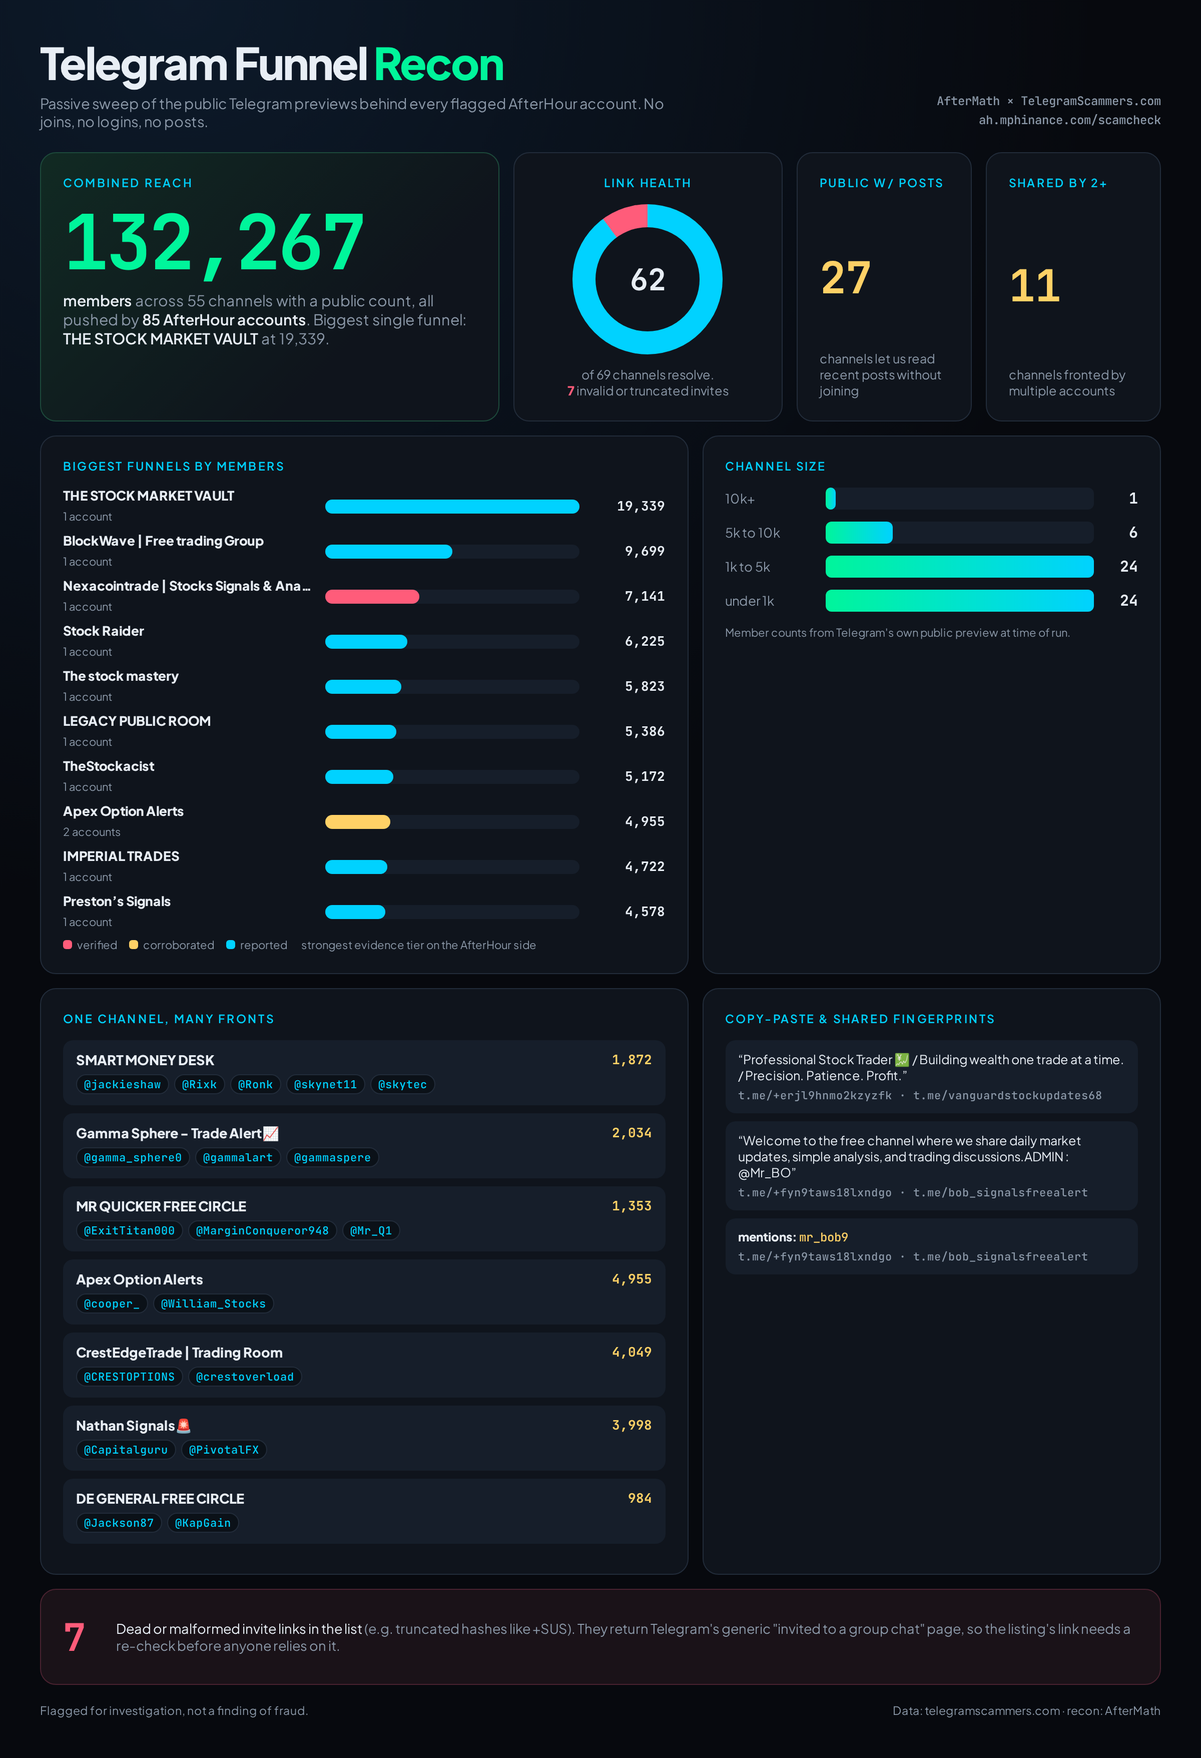
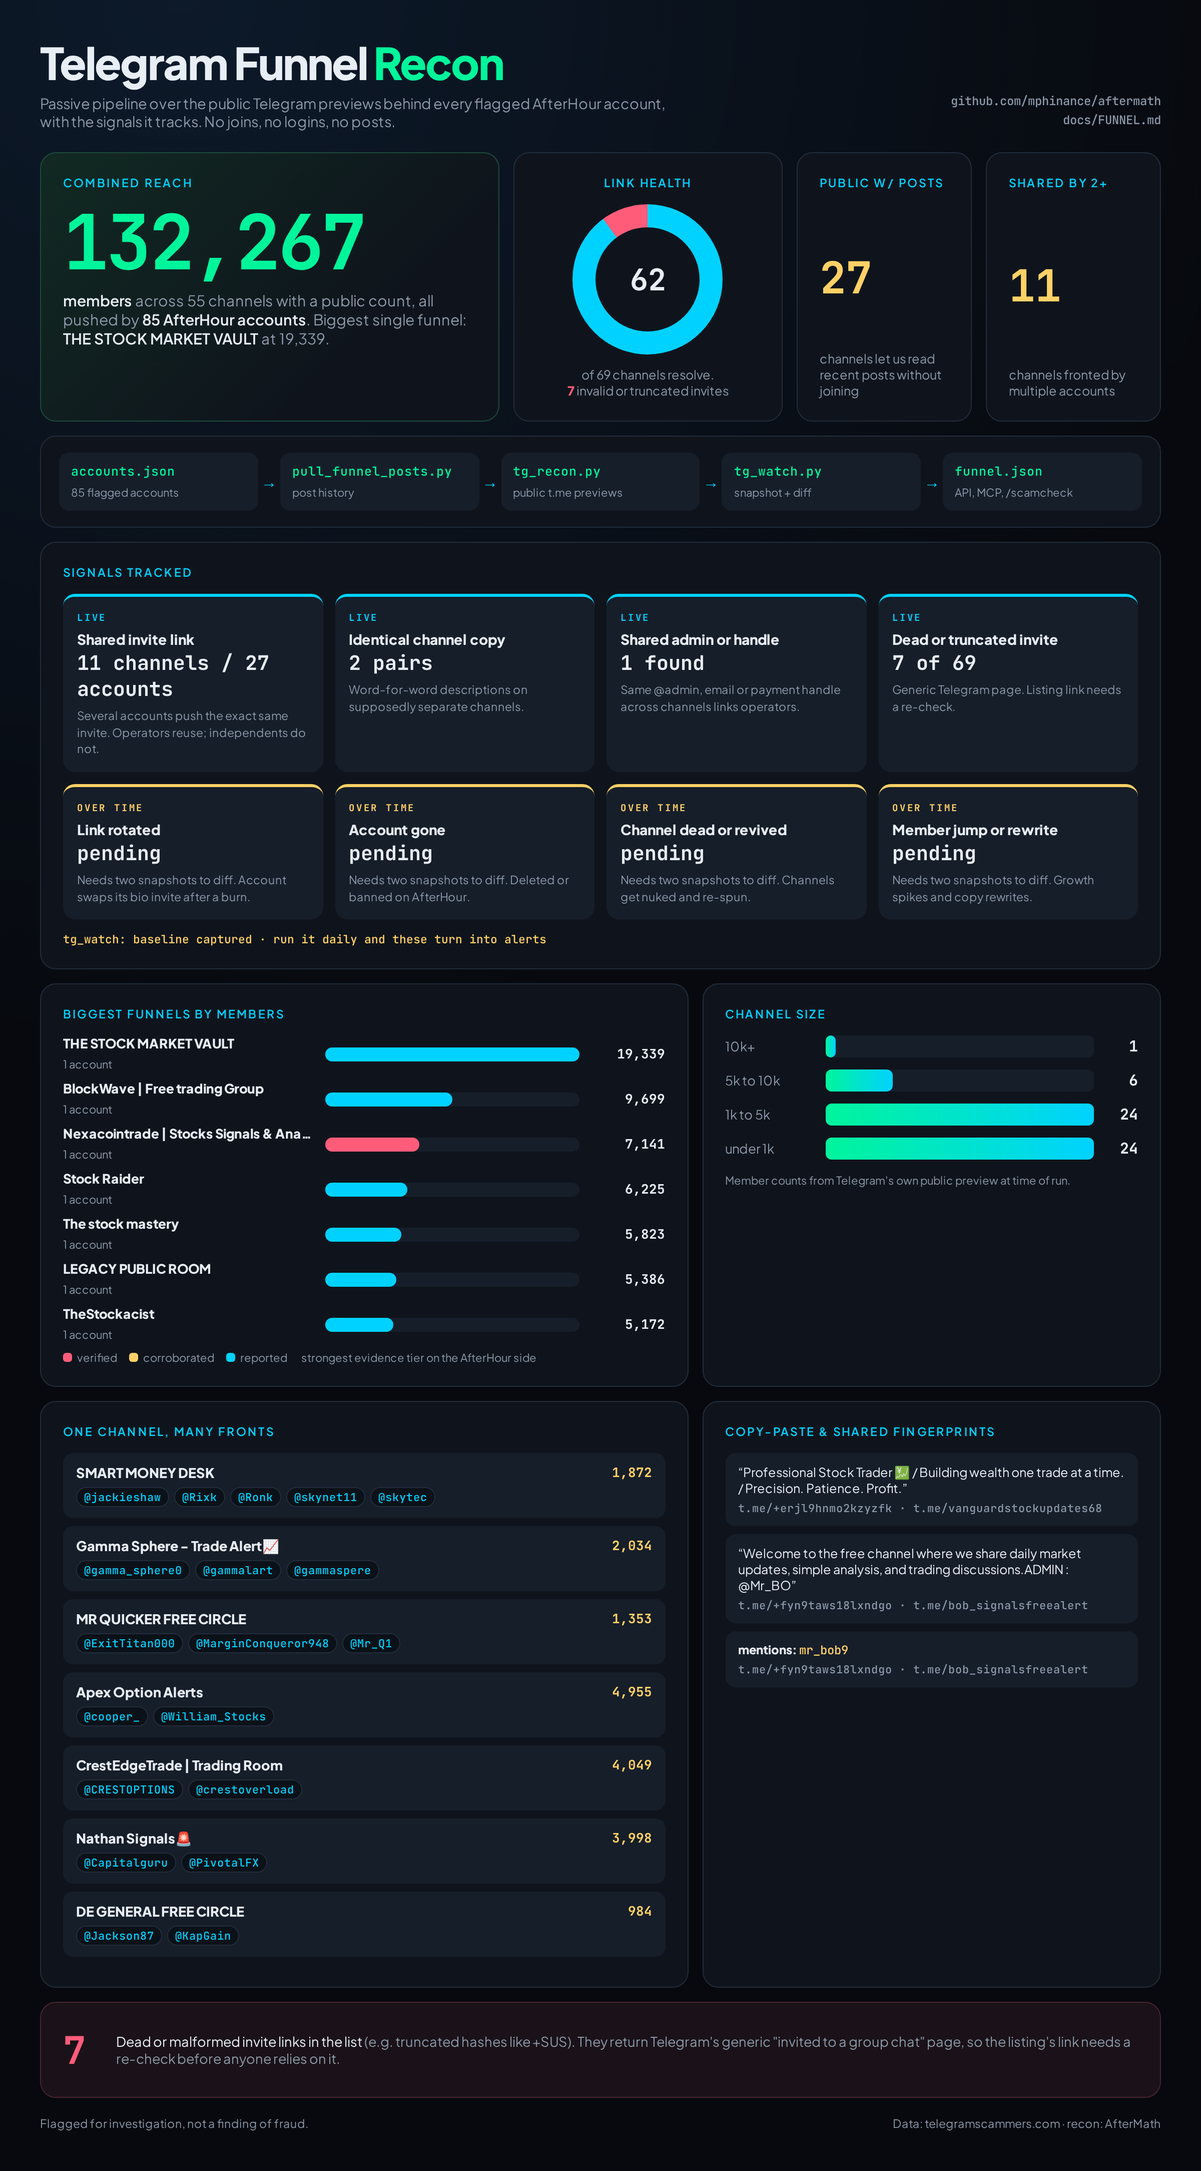
feat(funnel): infographic shows pipeline and tracked signals

diff --git a/reports/analysis/funnel_recon.html b/reports/analysis/funnel_recon.html
@@ -16,15 +16,18 @@
 .fr{grid-column:span 7}.front{background:var(--s);border-radius:10px;padding:11px 13px;margin-bottom:8px}.fh{display:flex;justify-content:space-between;font-size:13.5px}.fh span{font:700 13px 'JetBrains Mono';color:var(--y)}.chips{margin-top:6px;display:flex;flex-wrap:wrap;gap:5px}.chips i{font:500 11px 'JetBrains Mono';font-style:normal;background:#0b1118;border:1px solid var(--bd);padding:2px 7px;border-radius:99px;color:var(--c)}
 .cp{grid-column:span 5}.twin{background:var(--s);border-radius:10px;padding:11px 13px;margin-bottom:8px;font-size:12px;color:var(--m);overflow-wrap:anywhere}.twin q{display:block;color:var(--t);font-size:12.5px;margin-bottom:5px}.twin b{color:var(--t)}code{font-family:'JetBrains Mono';color:var(--y)}.twin span{display:block;margin-top:4px;font:500 11px 'JetBrains Mono'}
 .note{grid-column:span 12;display:flex;gap:30px;align-items:center;background:#1a1218;border-color:#4a2230}.note b{color:var(--r);font:700 38px 'JetBrains Mono'}.note p{font-size:13.5px;color:var(--m)}.note p em{color:var(--t);font-style:normal}
+.pipe{grid-column:span 12;display:flex;align-items:center;gap:0;padding:16px 18px}.step{flex:1;background:var(--s);border-radius:10px;padding:10px 12px;position:relative;margin-right:22px}.step:last-child{margin-right:0}.step:not(:last-child):after{content:'\2192';position:absolute;right:-19px;top:50%;transform:translateY(-50%);color:var(--c);font-size:16px}.step code{display:block;font-size:12.5px;color:var(--g)}.step span{font-size:11px;color:var(--m)}.sigs{grid-column:span 12}.sg{display:grid;grid-template-columns:repeat(4,1fr);gap:12px}.sig{background:var(--s);border-radius:12px;padding:14px;border-top:3px solid var(--c)}.sig.w{border-top-color:var(--y)}.sk{font:700 9.5px 'JetBrains Mono';letter-spacing:1.4px;color:var(--c)}.sig.w .sk{color:var(--y)}.sig b{display:block;font-size:14px;margin:6px 0 2px}.sv{font:700 20px 'JetBrains Mono';color:var(--t);margin-bottom:6px}.sig p{font-size:11.5px;color:var(--m);line-height:1.45}.wn{font:500 11.5px 'JetBrains Mono';color:var(--y);margin-top:12px}
 .ft{color:var(--m);font-size:11.5px;margin-top:18px;display:flex;justify-content:space-between}
 </style></head><body>
-<div class="hd"><div><h1>Telegram Funnel <span>Recon</span></h1><div class="sub">Passive sweep of the public Telegram previews behind every flagged AfterHour account. No joins, no logins, no posts.</div></div><div class="tag">AfterMath &times; TelegramScammers.com<br>ah.mphinance.com/scamcheck</div></div>
+<div class="hd"><div><h1>Telegram Funnel <span>Recon</span></h1><div class="sub">Passive pipeline over the public Telegram previews behind every flagged AfterHour account, with the signals it tracks. No joins, no logins, no posts.</div></div><div class="tag">github.com/mphinance/aftermath<br>docs/FUNNEL.md</div></div>
 <div class="grid">
 <div class="t hero"><h2>Combined reach</h2><b>132,267</b><p><em>members</em> across 55 channels with a public count, all pushed by <em>85 AfterHour accounts</em>. Biggest single funnel: <em>THE STOCK MARKET VAULT</em> at 19,339.</p></div>
 <div class="t donut"><h2>Link health</h2><div class="ring"><div>62</div></div><p>of 69 channels resolve.<br><b>7</b> invalid or truncated invites</p></div>
 <div class="t stat"><h2>Public w/ posts</h2><b>27</b><span>channels let us read recent posts without joining</span></div>
 <div class="t stat"><h2>Shared by 2+</h2><b>11</b><span>channels fronted by multiple accounts</span></div>
-<div class="t top"><h2>Biggest funnels by members</h2><div class="bar"><div class="bl"><b>THE STOCK MARKET VAULT</b><span>1 account</span></div><div class="track"><div class="fill reported" style="width:100.0%"></div></div><div class="bn">19,339</div></div><div class="bar"><div class="bl"><b>BlockWave | Free trading Group</b><span>1 account</span></div><div class="track"><div class="fill reported" style="width:50.2%"></div></div><div class="bn">9,699</div></div><div class="bar"><div class="bl"><b>Nexacointrade | Stocks Signals &amp; Analysis</b><span>1 account</span></div><div class="track"><div class="fill verified" style="width:36.9%"></div></div><div class="bn">7,141</div></div><div class="bar"><div class="bl"><b>Stock Raider</b><span>1 account</span></div><div class="track"><div class="fill reported" style="width:32.2%"></div></div><div class="bn">6,225</div></div><div class="bar"><div class="bl"><b>The stock mastery</b><span>1 account</span></div><div class="track"><div class="fill reported" style="width:30.1%"></div></div><div class="bn">5,823</div></div><div class="bar"><div class="bl"><b>LEGACY PUBLIC ROOM</b><span>1 account</span></div><div class="track"><div class="fill reported" style="width:27.9%"></div></div><div class="bn">5,386</div></div><div class="bar"><div class="bl"><b>TheStockacist</b><span>1 account</span></div><div class="track"><div class="fill reported" style="width:26.7%"></div></div><div class="bn">5,172</div></div><div class="bar"><div class="bl"><b>Apex Option Alerts</b><span>2 accounts</span></div><div class="track"><div class="fill corroborated" style="width:25.6%"></div></div><div class="bn">4,955</div></div><div class="bar"><div class="bl"><b>IMPERIAL TRADES</b><span>1 account</span></div><div class="track"><div class="fill reported" style="width:24.4%"></div></div><div class="bn">4,722</div></div><div class="bar"><div class="bl"><b>Preston’s Signals</b><span>1 account</span></div><div class="track"><div class="fill reported" style="width:23.7%"></div></div><div class="bn">4,578</div></div><div class="leg"><i class="v">verified</i><i class="cr">corroborated</i><i>reported</i> strongest evidence tier on the AfterHour side</div></div>
+<div class="t pipe"><div class="step"><code>accounts.json</code><span>85 flagged accounts</span></div><div class="step"><code>pull_funnel_posts.py</code><span>post history</span></div><div class="step"><code>tg_recon.py</code><span>public t.me previews</span></div><div class="step"><code>tg_watch.py</code><span>snapshot + diff</span></div><div class="step"><code>funnel.json</code><span>API, MCP, /scamcheck</span></div></div>
+<div class="t sigs"><h2>Signals tracked</h2><div class="sg"><div class="sig c"><div class="sk">LIVE</div><b>Shared invite link</b><div class="sv">11 channels / 27 accounts</div><p>Several accounts push the exact same invite. Operators reuse; independents do not.</p></div><div class="sig c"><div class="sk">LIVE</div><b>Identical channel copy</b><div class="sv">2 pairs</div><p>Word-for-word descriptions on supposedly separate channels.</p></div><div class="sig c"><div class="sk">LIVE</div><b>Shared admin or handle</b><div class="sv">1 found</div><p>Same @admin, email or payment handle across channels links operators.</p></div><div class="sig c"><div class="sk">LIVE</div><b>Dead or truncated invite</b><div class="sv">7 of 69</div><p>Generic Telegram page. Listing link needs a re-check.</p></div><div class="sig w"><div class="sk">OVER TIME</div><b>Link rotated</b><div class="sv">pending</div><p>Needs two snapshots to diff. Account swaps its bio invite after a burn.</p></div><div class="sig w"><div class="sk">OVER TIME</div><b>Account gone</b><div class="sv">pending</div><p>Needs two snapshots to diff. Deleted or banned on AfterHour.</p></div><div class="sig w"><div class="sk">OVER TIME</div><b>Channel dead or revived</b><div class="sv">pending</div><p>Needs two snapshots to diff. Channels get nuked and re-spun.</p></div><div class="sig w"><div class="sk">OVER TIME</div><b>Member jump or rewrite</b><div class="sv">pending</div><p>Needs two snapshots to diff. Growth spikes and copy rewrites.</p></div></div><div class="wn">tg_watch: baseline captured &middot; run it daily and these turn into alerts</div></div>
+<div class="t top"><h2>Biggest funnels by members</h2><div class="bar"><div class="bl"><b>THE STOCK MARKET VAULT</b><span>1 account</span></div><div class="track"><div class="fill reported" style="width:100.0%"></div></div><div class="bn">19,339</div></div><div class="bar"><div class="bl"><b>BlockWave | Free trading Group</b><span>1 account</span></div><div class="track"><div class="fill reported" style="width:50.2%"></div></div><div class="bn">9,699</div></div><div class="bar"><div class="bl"><b>Nexacointrade | Stocks Signals &amp; Analysis</b><span>1 account</span></div><div class="track"><div class="fill verified" style="width:36.9%"></div></div><div class="bn">7,141</div></div><div class="bar"><div class="bl"><b>Stock Raider</b><span>1 account</span></div><div class="track"><div class="fill reported" style="width:32.2%"></div></div><div class="bn">6,225</div></div><div class="bar"><div class="bl"><b>The stock mastery</b><span>1 account</span></div><div class="track"><div class="fill reported" style="width:30.1%"></div></div><div class="bn">5,823</div></div><div class="bar"><div class="bl"><b>LEGACY PUBLIC ROOM</b><span>1 account</span></div><div class="track"><div class="fill reported" style="width:27.9%"></div></div><div class="bn">5,386</div></div><div class="bar"><div class="bl"><b>TheStockacist</b><span>1 account</span></div><div class="track"><div class="fill reported" style="width:26.7%"></div></div><div class="bn">5,172</div></div><div class="leg"><i class="v">verified</i><i class="cr">corroborated</i><i>reported</i> strongest evidence tier on the AfterHour side</div></div>
 <div class="t size"><h2>Channel size</h2><div class="bk"><span>10k+</span><div class="bt"><div style="width:4%"></div></div><b>1</b></div><div class="bk"><span>5k to 10k</span><div class="bt"><div style="width:25%"></div></div><b>6</b></div><div class="bk"><span>1k to 5k</span><div class="bt"><div style="width:100%"></div></div><b>24</b></div><div class="bk"><span>under 1k</span><div class="bt"><div style="width:100%"></div></div><b>24</b></div><p class="leg" style="margin-top:14px">Member counts from Telegram's own public preview at time of run.</p></div>
 <div class="t fr"><h2>One channel, many fronts</h2><div class="front"><div class="fh"><b>SMART MONEY DESK</b><span>1,872</span></div><div class="chips"><i>@jackieshaw</i><i>@Rixk</i><i>@Ronk</i><i>@skynet11</i><i>@skytec</i></div></div><div class="front"><div class="fh"><b>Gamma Sphere - Trade Alert📈</b><span>2,034</span></div><div class="chips"><i>@gamma_sphere0</i><i>@gammalart</i><i>@gammaspere</i></div></div><div class="front"><div class="fh"><b>MR QUICKER FREE CIRCLE</b><span>1,353</span></div><div class="chips"><i>@ExitTitan000</i><i>@MarginConqueror948</i><i>@Mr_Q1</i></div></div><div class="front"><div class="fh"><b>Apex Option Alerts</b><span>4,955</span></div><div class="chips"><i>@cooper_</i><i>@William_Stocks</i></div></div><div class="front"><div class="fh"><b>CrestEdgeTrade | Trading Room</b><span>4,049</span></div><div class="chips"><i>@CRESTOPTIONS</i><i>@crestoverload</i></div></div><div class="front"><div class="fh"><b>Nathan Signals🚨</b><span>3,998</span></div><div class="chips"><i>@Capitalguru</i><i>@PivotalFX</i></div></div><div class="front"><div class="fh"><b>DE GENERAL FREE CIRCLE</b><span>984</span></div><div class="chips"><i>@Jackson87</i><i>@KapGain</i></div></div></div>
 <div class="t cp"><h2>Copy-paste &amp; shared fingerprints</h2><div class="twin"><q>Professional Stock Trader 💹 / Building wealth one trade at a time. / Precision. Patience. Profit.</q><span>t.me/+erjl9hnmo2kzyzfk &middot; t.me/vanguardstockupdates68</span></div><div class="twin"><q>Welcome to the free channel where we share daily market updates, simple analysis, and trading discussions.ADMIN : @Mr_BO</q><span>t.me/+fyn9taws18lxndgo &middot; t.me/bob_signalsfreealert</span></div><div class="twin"><b>mentions:</b> <code>mr_bob9</code><span>t.me/+fyn9taws18lxndgo &middot; t.me/bob_signalsfreealert</span></div></div>

diff --git a/render_recon.py b/render_recon.py
@@ -17,7 +17,7 @@ total = sum(mem(c) for c in sized)
 rank = {"verified": 3, "corroborated": 2, "reported": 1}
 tier = lambda c: max((acc[u]["tier"] for u in c["afterhour_accounts"] if u in acc), key=lambda t: rank[t])
 title = lambda c: (c["preview"] or {}).get("title") or c["link"]
-top = sorted(sized, key=mem, reverse=True)[:10]
+top = sorted(sized, key=mem, reverse=True)[:7]
 mx = mem(top[0]) if top else 1
 bars = "".join(f'<div class="bar"><div class="bl"><b>{e(title(c))}</b><span>{len(c["afterhour_accounts"])} account{"s" if len(c["afterhour_accounts"])>1 else ""}</span></div><div class="track"><div class="fill {tier(c)}" style="width:{max(3,mem(c)/mx*100):.1f}%"></div></div><div class="bn">{mem(c):,}</div></div>' for c in top)
 multi = sorted([c for c in live if len(c["afterhour_accounts"]) > 1], key=lambda c: (-len(c["afterhour_accounts"]), -mem(c)))
@@ -32,6 +32,32 @@ twins = "".join(f'<div class="twin"><q>{e((g["description"] or "").replace(chr(1
 fps = S["shared_fingerprints"]
 fpt = "".join(f'<div class="twin"><b>{e(g["type"])}:</b> <code>{e(g["value"])}</code><span>{" &middot; ".join(e(l) for l in g["links"])}</span></div>' for g in fps[:3])
 pub = sum(1 for c in ch if c["public_posts_seen"])
+clusters = len(multi)
+cl_accts = len({u for c in multi for u in c["afterhour_accounts"]})
+admins = [g for g in fps if g["type"] in ("mentions", "email", "eth", "btc", "tron", "paypal", "cashapp")]
+wallets = sum(1 for g in fps if g["type"] in ("eth", "btc", "tron", "paypal", "cashapp"))
+watch = (B/"reports/analysis/funnel_watch.md")
+wl = [l[2:] for l in watch.read_text().splitlines() if l.startswith("- ")] if watch.exists() else []
+have_diff = watch.exists()
+def wcount(*keys): return sum(1 for l in wl if any(l.startswith(k) for k in keys))
+def wtxt(base, *keys): return (f"{wcount(*keys)} so far. " if have_diff else "Needs two snapshots to diff. ") + base
+if watch.exists():
+    wnote = f"{len(wl)} change(s) since baseline" if wl and wl[0] != "no changes" else "baseline set, no changes yet"
+else:
+    wnote = "baseline captured"
+SIG = [
+ ("c","Shared invite link",f"{clusters} channels / {cl_accts} accounts","Several accounts push the exact same invite. Operators reuse; independents do not."),
+ ("c","Identical channel copy",f"{len(ident)} pairs","Word-for-word descriptions on supposedly separate channels."),
+ ("c","Shared admin or handle",f"{len(admins)} found","Same @admin, email or payment handle across channels links operators."),
+ ("c","Dead or truncated invite",f"{len(dead)} of {len(ch)}","Generic Telegram page. Listing link needs a re-check."),
+ ("w","Link rotated",("changes" if have_diff else "pending"),wtxt("Account swaps its bio invite after a burn.","LINK ROTATED")),
+ ("w","Account gone",("changes" if have_diff else "pending"),wtxt("Deleted or banned on AfterHour.","ACCOUNT GONE")),
+ ("w","Channel dead or revived",("changes" if have_diff else "pending"),wtxt("Channels get nuked and re-spun.","WENT DEAD","REVIVED")),
+ ("w","Member jump or rewrite",("changes" if have_diff else "pending"),wtxt("Growth spikes and copy rewrites.","members","description","renamed")),
+]
+sigcards = "".join(f'<div class="sig {k}"><div class="sk">{"LIVE" if k=="c" else "OVER TIME"}</div><b>{e(n)}</b><div class="sv">{e(v)}</div><p>{e(d)}</p></div>' for k,n,v,d in SIG)
+PIPE = [("accounts.json","85 flagged accounts"),("pull_funnel_posts.py","post history"),("tg_recon.py","public t.me previews"),("tg_watch.py","snapshot + diff"),("funnel.json","API, MCP, /scamcheck")]
+pipe = "".join(f'<div class="step"><code>{e(a)}</code><span>{e(b)}</span></div>' for a,b in PIPE)
 big = top[0] if top else None
 doc = f'''<!doctype html><html><head><meta charset="utf-8"><style>
 @import url('https://fonts.googleapis.com/css2?family=JetBrains+Mono:wght@500;700&family=Plus+Jakarta+Sans:wght@400;600;800&display=swap');
@@ -51,14 +77,17 @@ doc = f'''<!doctype html><html><head><meta charset="utf-8"><style>
 .fr{{grid-column:span 7}}.front{{background:var(--s);border-radius:10px;padding:11px 13px;margin-bottom:8px}}.fh{{display:flex;justify-content:space-between;font-size:13.5px}}.fh span{{font:700 13px 'JetBrains Mono';color:var(--y)}}.chips{{margin-top:6px;display:flex;flex-wrap:wrap;gap:5px}}.chips i{{font:500 11px 'JetBrains Mono';font-style:normal;background:#0b1118;border:1px solid var(--bd);padding:2px 7px;border-radius:99px;color:var(--c)}}
 .cp{{grid-column:span 5}}.twin{{background:var(--s);border-radius:10px;padding:11px 13px;margin-bottom:8px;font-size:12px;color:var(--m);overflow-wrap:anywhere}}.twin q{{display:block;color:var(--t);font-size:12.5px;margin-bottom:5px}}.twin b{{color:var(--t)}}code{{font-family:'JetBrains Mono';color:var(--y)}}.twin span{{display:block;margin-top:4px;font:500 11px 'JetBrains Mono'}}
 .note{{grid-column:span 12;display:flex;gap:30px;align-items:center;background:#1a1218;border-color:#4a2230}}.note b{{color:var(--r);font:700 38px 'JetBrains Mono'}}.note p{{font-size:13.5px;color:var(--m)}}.note p em{{color:var(--t);font-style:normal}}
+.pipe{{grid-column:span 12;display:flex;align-items:center;gap:0;padding:16px 18px}}.step{{flex:1;background:var(--s);border-radius:10px;padding:10px 12px;position:relative;margin-right:22px}}.step:last-child{{margin-right:0}}.step:not(:last-child):after{{content:'\\2192';position:absolute;right:-19px;top:50%;transform:translateY(-50%);color:var(--c);font-size:16px}}.step code{{display:block;font-size:12.5px;color:var(--g)}}.step span{{font-size:11px;color:var(--m)}}.sigs{{grid-column:span 12}}.sg{{display:grid;grid-template-columns:repeat(4,1fr);gap:12px}}.sig{{background:var(--s);border-radius:12px;padding:14px;border-top:3px solid var(--c)}}.sig.w{{border-top-color:var(--y)}}.sk{{font:700 9.5px 'JetBrains Mono';letter-spacing:1.4px;color:var(--c)}}.sig.w .sk{{color:var(--y)}}.sig b{{display:block;font-size:14px;margin:6px 0 2px}}.sv{{font:700 20px 'JetBrains Mono';color:var(--t);margin-bottom:6px}}.sig p{{font-size:11.5px;color:var(--m);line-height:1.45}}.wn{{font:500 11.5px 'JetBrains Mono';color:var(--y);margin-top:12px}}
 .ft{{color:var(--m);font-size:11.5px;margin-top:18px;display:flex;justify-content:space-between}}
 </style></head><body>
-<div class="hd"><div><h1>Telegram Funnel <span>Recon</span></h1><div class="sub">Passive sweep of the public Telegram previews behind every flagged AfterHour account. No joins, no logins, no posts.</div></div><div class="tag">AfterMath &times; TelegramScammers.com<br>ah.mphinance.com/scamcheck</div></div>
+<div class="hd"><div><h1>Telegram Funnel <span>Recon</span></h1><div class="sub">Passive pipeline over the public Telegram previews behind every flagged AfterHour account, with the signals it tracks. No joins, no logins, no posts.</div></div><div class="tag">github.com/mphinance/aftermath<br>docs/FUNNEL.md</div></div>
 <div class="grid">
 <div class="t hero"><h2>Combined reach</h2><b>{total:,}</b><p><em>members</em> across {len(sized)} channels with a public count, all pushed by <em>{len(acc)} AfterHour accounts</em>. Biggest single funnel: <em>{e(title(big)) if big else ""}</em> at {mem(big):,}.</p></div>
 <div class="t donut"><h2>Link health</h2><div class="ring"><div>{len(live)}</div></div><p>of {len(ch)} channels resolve.<br><b>{len(dead)}</b> invalid or truncated invites</p></div>
 <div class="t stat"><h2>Public w/ posts</h2><b>{pub}</b><span>channels let us read recent posts without joining</span></div>
 <div class="t stat"><h2>Shared by 2+</h2><b>{len(multi)}</b><span>channels fronted by multiple accounts</span></div>
+<div class="t pipe">{pipe}</div>
+<div class="t sigs"><h2>Signals tracked</h2><div class="sg">{sigcards}</div><div class="wn">tg_watch: {wnote} &middot; run it daily and these turn into alerts</div></div>
 <div class="t top"><h2>Biggest funnels by members</h2>{bars}<div class="leg"><i class="v">verified</i><i class="cr">corroborated</i><i>reported</i> strongest evidence tier on the AfterHour side</div></div>
 <div class="t size"><h2>Channel size</h2>{buckets}<p class="leg" style="margin-top:14px">Member counts from Telegram's own public preview at time of run.</p></div>
 <div class="t fr"><h2>One channel, many fronts</h2>{fronts}</div>
